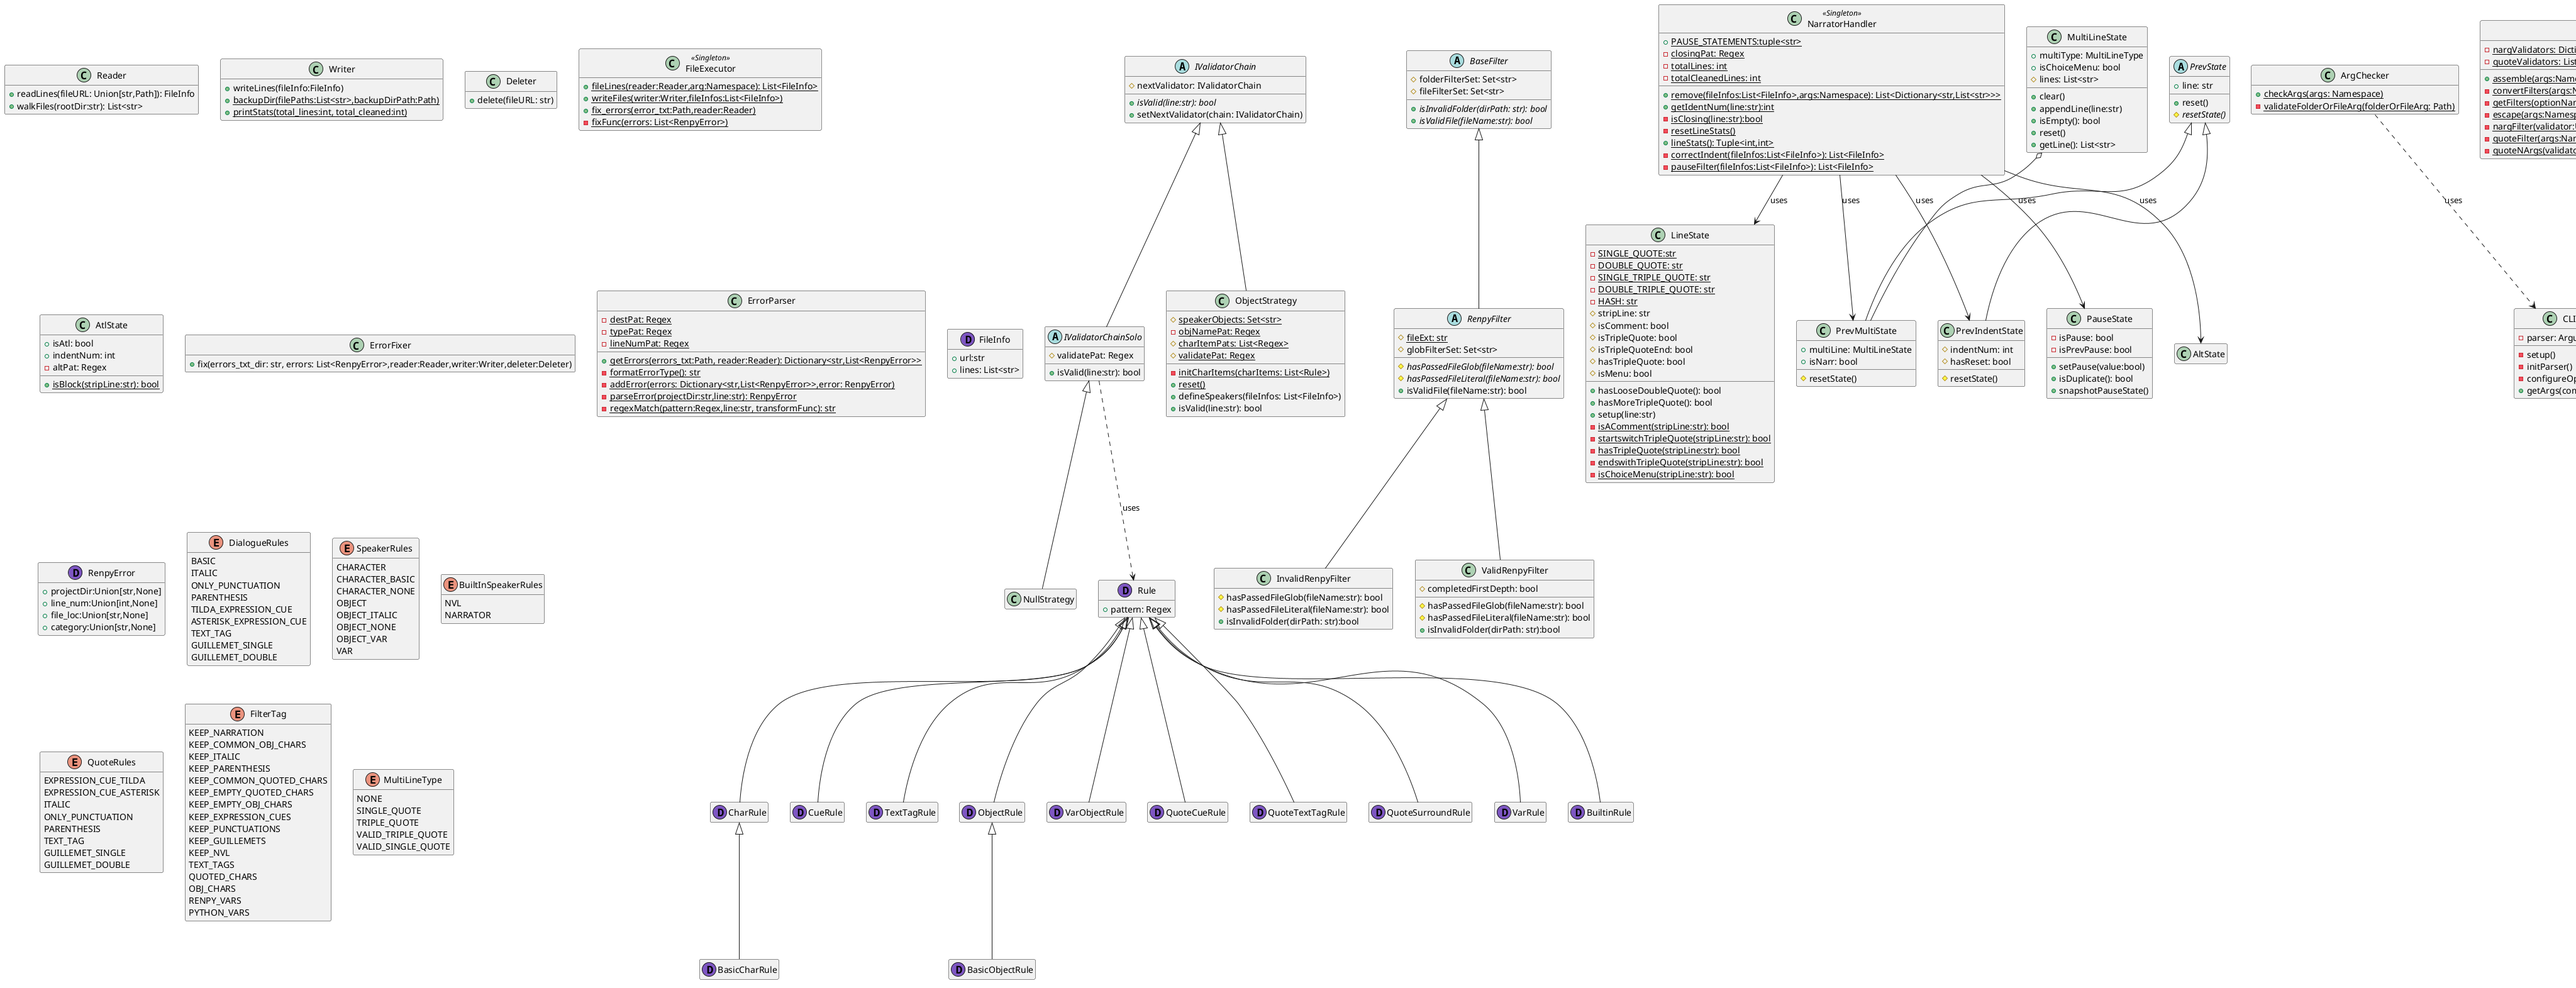
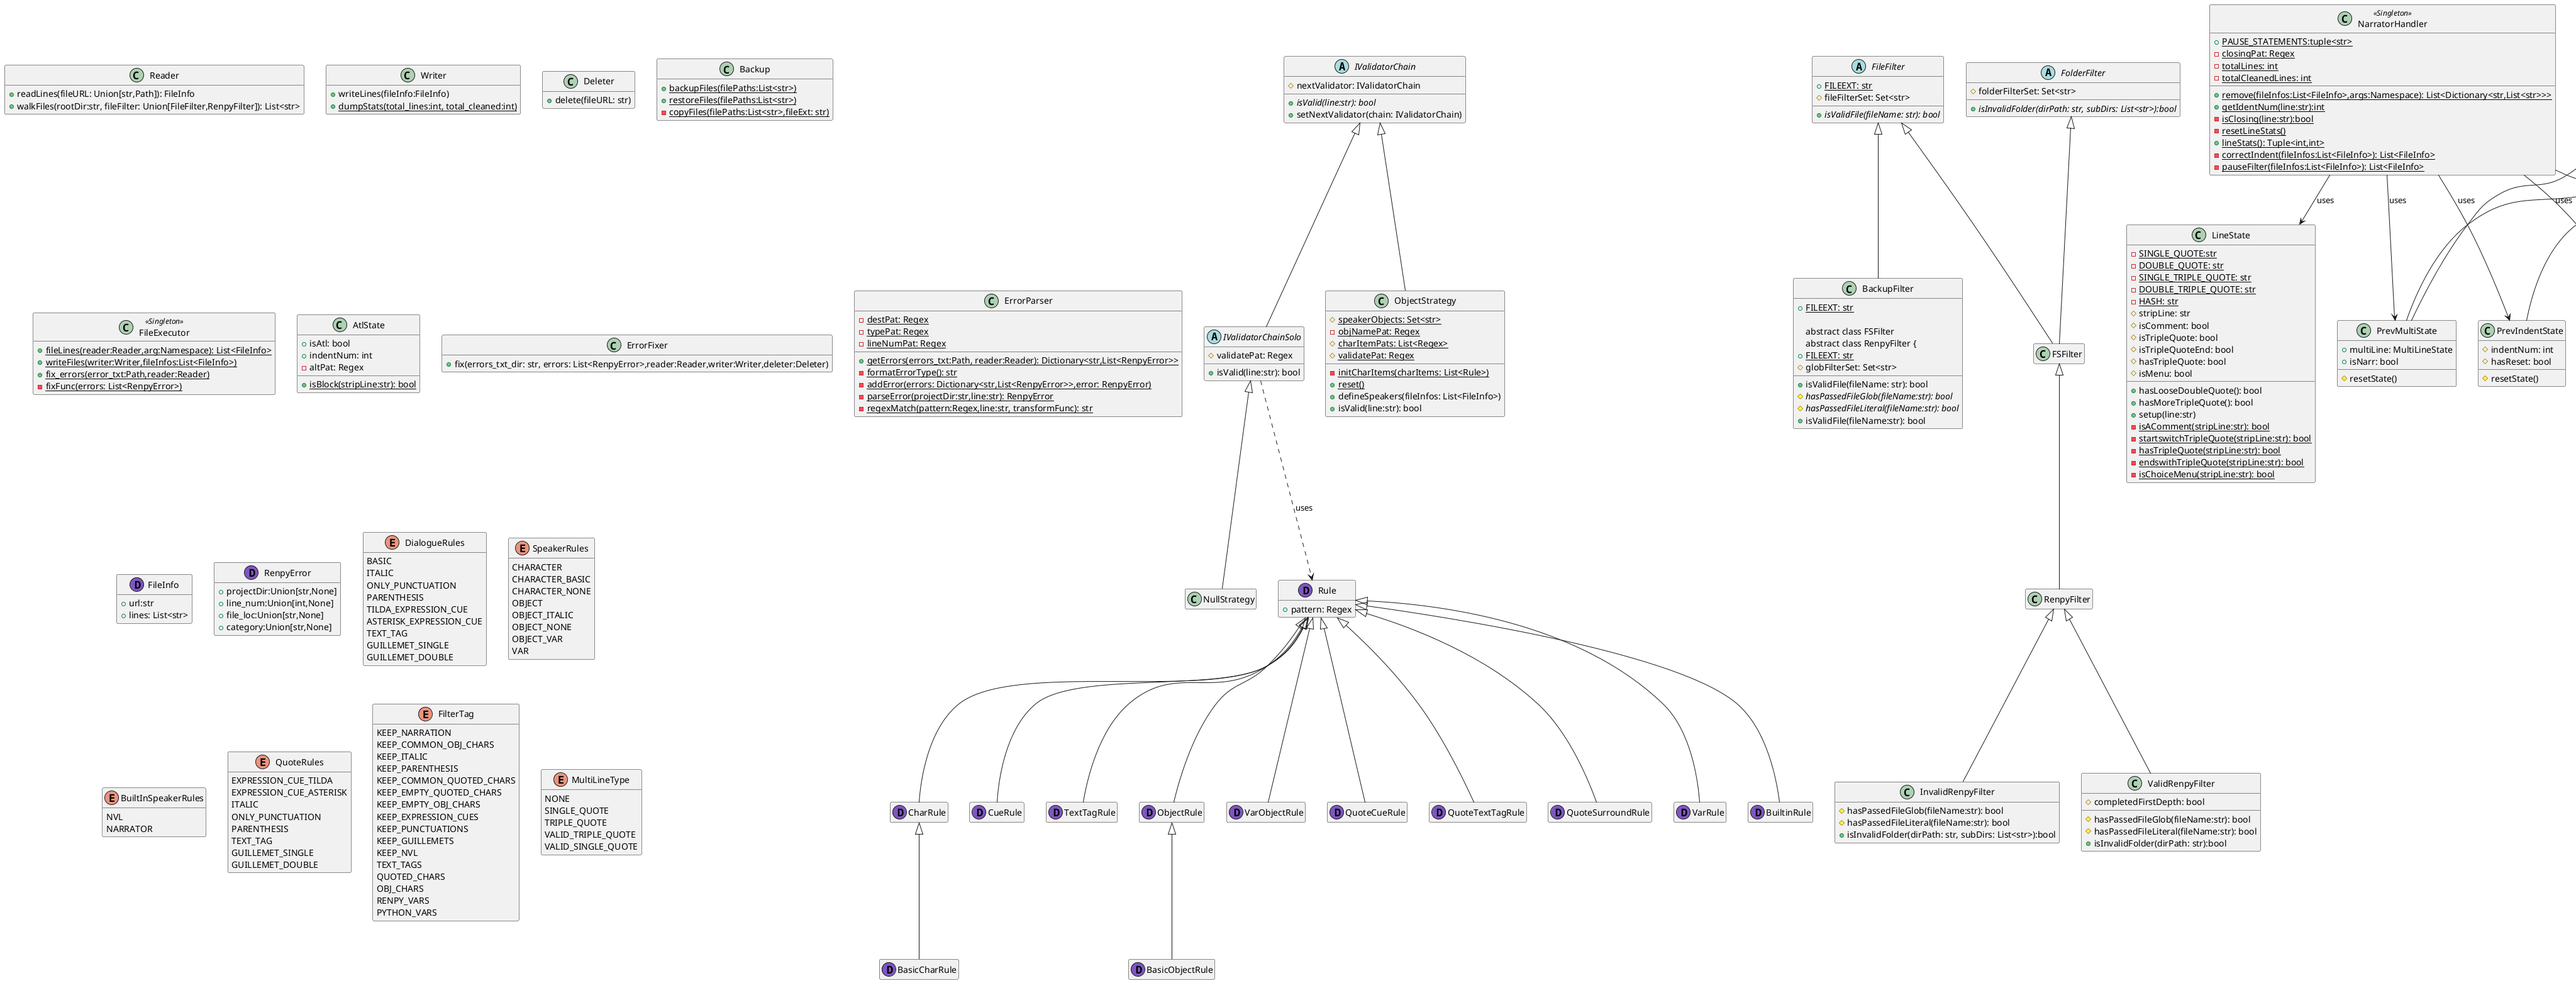
feat!: Change behavior of backup option.
- 'backup' option is now a switch
- Backups are now placed alongside the location of their original file
- New option 'restore': restore the original state of .rpy files using
their backups
- Update class diagram
- Update COMMANDS.md
- Update tests

diff --git a/tests/file/test_backup.py b/tests/file/test_backup.py
@@ -1,0 +1,37 @@
+import os
+import pathlib
+from lib.arg.cli_parser import CLIParser
+from lib.file.backup import Backup
+from lib.file.filter.backup_filter import BackupFilter
+from lib.file.filter.renpy_filter import RenpyFilter
+import tests.fixture as fixture
+import unittest
+
+
+class TestBackup(unittest.TestCase):
+    def setUp(self) -> None:
+        self._parser = CLIParser()
+        self._path = fixture.get_dummy_path(self._parser)
+        self.backup_folder = None
+
+    def tearDown(self) -> None:
+        if self.backup_folder and self.backup_folder.exists():
+            os.remove(self.backup_folder)
+
+    def test_backup(self):
+        dummy_file = "ex_reader"
+        backup_path = pathlib.Path(f"{self._path}/{dummy_file}{BackupFilter.FILE_EXT}")
+        files_to_backup = [f"{self._path}/{dummy_file}{RenpyFilter.FILE_EXT}"]
+        Backup.backup_files(files_to_backup)
+        self.assertTrue(backup_path.exists(), f"Backup file doesn't exist at {backup_path.absolute()}")
+        self.backup_folder = backup_path
+
+    def test_restore(self):
+        dummy_file = "ex_reader"
+        original_file = pathlib.Path(f"{self._path}/{dummy_file}{RenpyFilter.FILE_EXT}")
+        files_to_backup = [f"{self._path}/{dummy_file}{RenpyFilter.FILE_EXT}"]
+        Backup.backup_files(files_to_backup)
+        os.remove(original_file)
+        Backup.restore_files([f"{self._path}/{dummy_file}{BackupFilter.FILE_EXT}"])
+        self.assertTrue(original_file.exists(), f"Original file was not restored at {original_file.absolute()}")
+        self.backup_folder = pathlib.Path(f"{self._path}/{dummy_file}{BackupFilter.FILE_EXT}")

diff --git a/src/lib/file/writer.py b/src/lib/file/writer.py
@@ -1,9 +1,5 @@
-import pathlib
-import shutil
 import json
-
 from lib.custom_types import FileInfo
-from lib.log import Log
 
 
 class Writer:
@@ -20,22 +16,12 @@ class Writer:
 
     @staticmethod
     def dump_stats(total_lines: int, total_cleaned: int):
-        results = {'stats': {'code_removed_by_line': total_lines - total_cleaned,
-                             'code_removed_by_percentage': (total_lines - total_cleaned) / total_lines * 100,
-                             'code_remaining_by_percentage': (total_cleaned / total_lines) * 100
-                             }}
-        with open('./stats.json', 'w', encoding="utf-8") as f:
-            json.dump(results,f)
-
-    @staticmethod
-    def backup_dir(file_paths: list[str], backup_dir_path: pathlib.Path):
-        """Backup files to a specified directory.
-
-        Args:
-            file_paths: a list of paths pointing to a file.
-            backup_dir_path: the destination directory to backup the files to.
-        """
-        Log.wait(f"Backing up files to {backup_dir_path}. This may take a while")
-        backup_dir_path.mkdir(parents=True, exist_ok=True)
-        for file_path in file_paths:
-            shutil.copy(file_path, backup_dir_path)
+        results = {
+            "stats": {
+                "code_removed_by_line": total_lines - total_cleaned,
+                "code_removed_by_percentage": (total_lines - total_cleaned) / total_lines * 100,
+                "code_remaining_by_percentage": (total_cleaned / total_lines) * 100,
+            }
+        }
+        with open("./stats.json", "w", encoding="utf-8") as f:
+            json.dump(results, f)

diff --git a/src/lib/file/backup.py b/src/lib/file/backup.py
@@ -1,0 +1,38 @@
+import shutil
+import typing
+import os.path
+from lib.file.filter.backup_filter import BackupFilter
+from lib.file.filter.renpy_filter import RenpyFilter
+from lib.log import Log
+
+
+@typing.final
+class Backup:
+    """Tools for backing up and recovering files."""
+
+    @staticmethod
+    def backup_files(file_paths: list[str]):
+        """Create backup files in the same directory as the original files.
+
+        Args:
+            file_paths: a list of paths pointing to a file.
+        """
+        Log.wait("Backing up files. This may take a while!")
+        Backup.__copy_files(file_paths, BackupFilter.FILE_EXT)
+
+    @staticmethod
+    def restore_files(file_paths: list[str]):
+        """Restore original files from their backup.
+
+        Args:
+            file_paths: list of file paths
+        """
+        Log.wait("Restoring files to their original state. This may take a while!")
+        Backup.__copy_files(file_paths, RenpyFilter.FILE_EXT)
+        Log.info("files restored", len(file_paths))
+
+    @staticmethod
+    def __copy_files(file_paths: list[str], file_ext: str):
+        for file_path in file_paths:
+            copy_path = f"{os.path.splitext(file_path)[0]}{file_ext}"  # *.rpy <-> *.rpybu
+            shutil.copy(file_path, copy_path)

diff --git a/src/lib/file/filter/renpy_filter.py b/src/lib/file/filter/renpy_filter.py
@@ -2,22 +2,22 @@ import abc
 from abc import abstractmethod
 from typing import override
 
-from .base_filter import BaseFilter
+from .fs_filter import FSFilter
 
 
-class RenpyFilter(BaseFilter, abc.ABC):
+class RenpyFilter(FSFilter, abc.ABC):
     """Tools for validating renpy files.
 
     Renpy files validated are '.rpy' files.
     """
 
-    _file_ext: str = ".rpy"
+    FILE_EXT: str = ".rpy"
 
     def __init__(
-            self,
-            folder_filter_set: set[str] | None = None,
-            file_filter_set: set[str] | None = None,
-            glob_filter_set: set[str] | None = None,
+        self,
+        folder_filter_set: set[str] | None = None,
+        file_filter_set: set[str] | None = None,
+        glob_filter_set: set[str] | None = None,
     ):
         super().__init__(folder_filter_set, file_filter_set)
         self._glob_filter_set = glob_filter_set
@@ -43,4 +43,4 @@ class RenpyFilter(BaseFilter, abc.ABC):
 
     @override
     def is_valid_file(self, file_name: str) -> bool:
-        return file_name.endswith(RenpyFilter._file_ext)
+        return file_name.endswith(RenpyFilter.FILE_EXT)

diff --git a/src/lib/file/reader.py b/src/lib/file/reader.py
@@ -1,7 +1,7 @@
 import os
 import pathlib
 
-from lib.file.filter.renpy_filter import RenpyFilter
+from lib.file.filter import FileFilter, RenpyFilter, FolderFilter
 from ..custom_types import FileInfo
 
 
@@ -22,7 +22,7 @@ class Reader:
             lines = f.readlines()
         return FileInfo(str(file_url), lines)
 
-    def walk_files(self, root_dir: str, file_filter: RenpyFilter) -> list[str]:
+    def walk_files(self, root_dir: str, file_filter: FileFilter | RenpyFilter) -> list[str]:
         """Retrieve all file paths recursively.
 
         While walking through directories, retrieve all paths to each file.
@@ -36,7 +36,7 @@ class Reader:
         """
         files = []
         for dirpath, dir_names, file_names in os.walk(root_dir):
-            if file_filter.is_invalid_folder(dirpath, dir_names):
+            if isinstance(file_filter, FolderFilter) and file_filter.is_invalid_folder(dirpath, dir_names):
                 continue
             for file_name in file_names:
                 if file_filter.is_valid_file(file_name):

diff --git a/src/lib/main.py b/src/lib/main.py
@@ -1,5 +1,7 @@
 from lib.arg import CLIParser, ArgChecker, ArgAssembler
 from lib.file import Writer, FileExecutor, Reader
+from lib.file.backup import Backup
+from lib.file.filter import BackupFilter
 from lib.log import Log
 from lib.narrator_handler import NarratorHandler
 from lib.validator import ObjectStrategy
@@ -11,7 +13,13 @@ def run():
     reader = Reader()
     file_executor = FileExecutor()
     FileExecutor.max_workers = arg_namespace.jobs
-    if arg_namespace.folder_or_file.is_file() and arg_namespace.folder_or_file.name == "errors.txt":
+    # Restore Files
+    if arg_namespace.folder_or_file.is_dir() and arg_namespace.restore:
+        files = reader.walk_files(arg_namespace.folder_or_file, BackupFilter())
+        Backup.restore_files(files)
+        return
+    # Fix Errors
+    elif arg_namespace.folder_or_file.is_file() and arg_namespace.folder_or_file.name == "errors.txt":
         file_executor.fix_errors(arg_namespace.folder_or_file, reader)
         return
     ArgChecker.check_args(arg_namespace)

diff --git a/src/lib/file/filter/invalid_renpy_filter.py b/src/lib/file/filter/invalid_renpy_filter.py
@@ -15,12 +15,7 @@ class InvalidRenpyFilter(RenpyFilter):
     def _has_passed_file_glob(self, file_name: str) -> bool:
         if self._glob_filter_set is None:
             return True
-        return not any(
-            (
-                fnmatch.fnmatchcase(file_name, pat + RenpyFilter._file_ext)
-                for pat in self._glob_filter_set
-            )
-        )
+        return not any((fnmatch.fnmatchcase(file_name, pat + RenpyFilter.FILE_EXT) for pat in self._glob_filter_set))
 
     @override
     def is_invalid_folder(self, dirpath: str, sub_dirs: list[str]) -> bool:
@@ -29,7 +24,6 @@ class InvalidRenpyFilter(RenpyFilter):
         sub_dirs[:] = [sub_dir for sub_dir in sub_dirs if sub_dir not in self._folder_filter_set]
         dir_base_name = os.path.basename(dirpath)
         return any((x == dir_base_name for x in self._folder_filter_set))
-
 
     @override
     def is_valid_file(self, file_name: str) -> bool:

diff --git a/src/lib/arg/cli_parser.py b/src/lib/arg/cli_parser.py
@@ -20,7 +20,7 @@ class CLIParser:
     """
 
     def __init__(self):
-        self.__version_num = "5.2.1"
+        self.__version_num = "6.0.0"
         self.__setup()
 
     def __setup(self):
@@ -65,9 +65,14 @@ class CLIParser:
         self.__add_arg(
             "-b",
             "--backup",
-            metavar="BACKUP_DIR_PATH",
-            type=pathlib.Path,
-            help="Backup .rpy files to a specified location.",
+            action="store_true",
+            help="Create backups of .rpy files alongside original files",
+        )
+        self.__add_arg(
+            "-r",
+            "--restore",
+            action="store_true",
+            help="Restore .rpy files to their original state from backups, .rpybu files",
         )
         self.__add_arg("-s", "--stats", action="store_true", help="Write stats to a file, 'stats.json'")
         self.__add_arg(

diff --git a/tests/__init__.py b/tests/__init__.py
@@ -3,8 +3,11 @@ from tests.validator import *
 from tests.arg.actions import *
 from tests.arg import *
 from tests.file import *
+
+
 def load(test_case: type[unittest.TestCase]) -> unittest.TestSuite:
     return unittest.TestLoader().loadTestsFromTestCase(test_case)
+
 
 def suite() -> unittest.TestSuite:
     test_suite = unittest.TestSuite()
@@ -17,11 +20,13 @@ def suite() -> unittest.TestSuite:
     test_suite.addTests(load(TestQuote))
     test_suite.addTests(load(TestAppendUnique))
     test_suite.addTests(load(TestArgChecker))
-    test_suite.addTests(load(TestWriter))
+    test_suite.addTests(load(TestBackup))
     test_suite.addTests(load(TestReader))
     test_suite.addTests(load(TestExecutor))
     return test_suite
 
+
 if __name__ == "__main__":
     runner = unittest.TextTestRunner()
     runner.run(suite())
+

diff --git a/src/lib/file/file_executor.py b/src/lib/file/file_executor.py
@@ -7,6 +7,7 @@ from lib.custom_types import FileInfo
 from lib.error import RenpyError, ErrorParser, ErrorFixer
 from lib.log import Log
 
+from .backup import Backup
 from .deleter import Deleter
 from .reader import Reader
 from .writer import Writer
@@ -26,7 +27,7 @@ class FileExecutor:
     def file_lines(cls, reader: Reader, arg_namespace) -> list[FileInfo]:
         files = reader.walk_files(arg_namespace.folder_or_file, arg_namespace.file_filter)
         if arg_namespace.backup:
-            Writer.backup_dir(files, arg_namespace.backup)
+            Backup.backup_files(files)
         file_infos = None
         with ThreadPoolExecutor(cls.max_workers) as ex:
             results = ex.map(reader.read_lines, files)

diff --git a/src/lib/file/filter/folder_filter.py b/src/lib/file/filter/folder_filter.py
@@ -1,0 +1,18 @@
+from abc import ABC, abstractmethod
+
+
+class FolderFilter(ABC):
+    """Tools for validating directories."""
+
+    def __init__(self, folder_filter_set: set[str] | None = None) -> None:
+        self._folder_filter_set = folder_filter_set
+
+    @abstractmethod
+    def is_invalid_folder(self, dirpath: str, sub_dirs: list[str]) -> bool:
+        """Removes invalid subdirectories and check if current folder is valid.
+
+        Args:
+            dirpath: absolute directory path
+            sub_dirs: collection of subdirectory names
+        """
+        pass

diff --git a/src/lib/file/filter/file_filter.py b/src/lib/file/filter/file_filter.py
@@ -1,0 +1,22 @@
+from abc import ABC, abstractmethod
+
+
+class FileFilter(ABC):
+    """Tools for validating files."""
+
+    FILE_EXT: str
+
+    def __init__(self, file_filter_set: set[str] | None = None) -> None:
+        self._file_filter_set = file_filter_set
+
+    @abstractmethod
+    def is_valid_file(self, file_name: str) -> bool:
+        """Checks if file can be operated on.
+
+        Args:
+            file_name: File name with extension included
+
+            Returns:
+                A boolean determining if a file is valid or not.
+        """
+        pass
